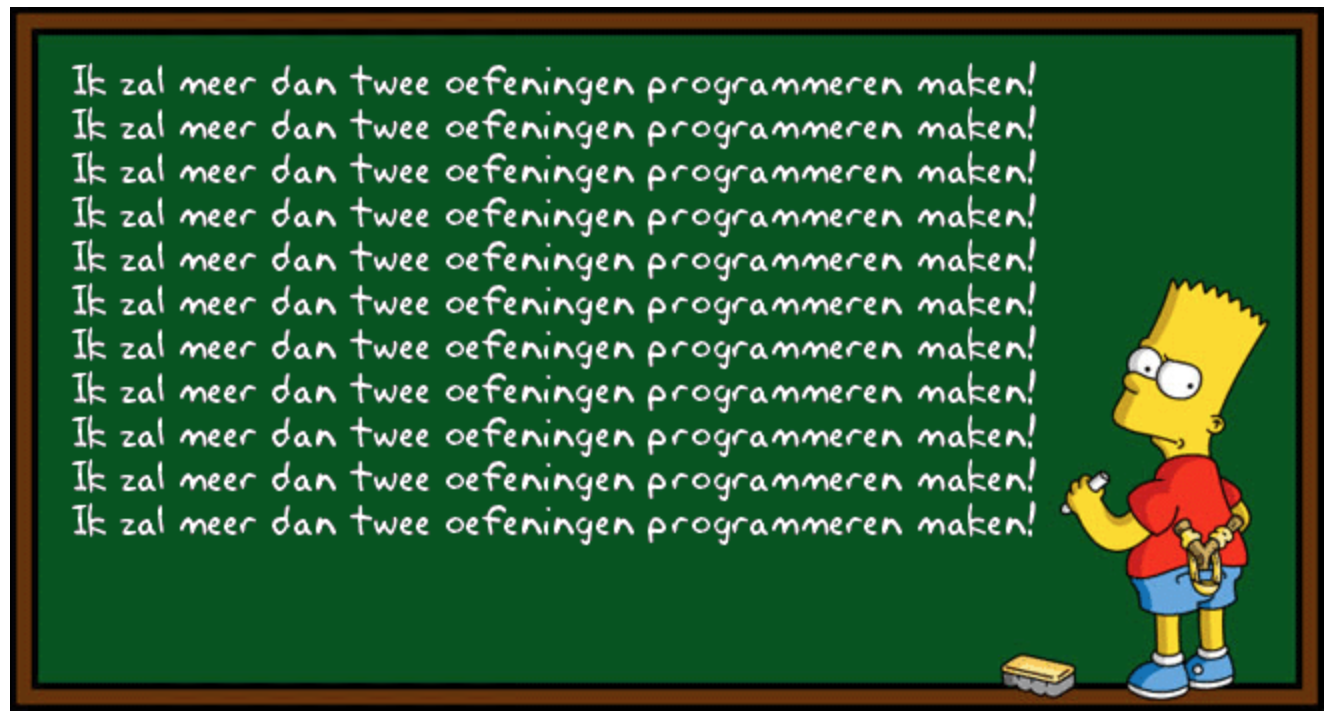
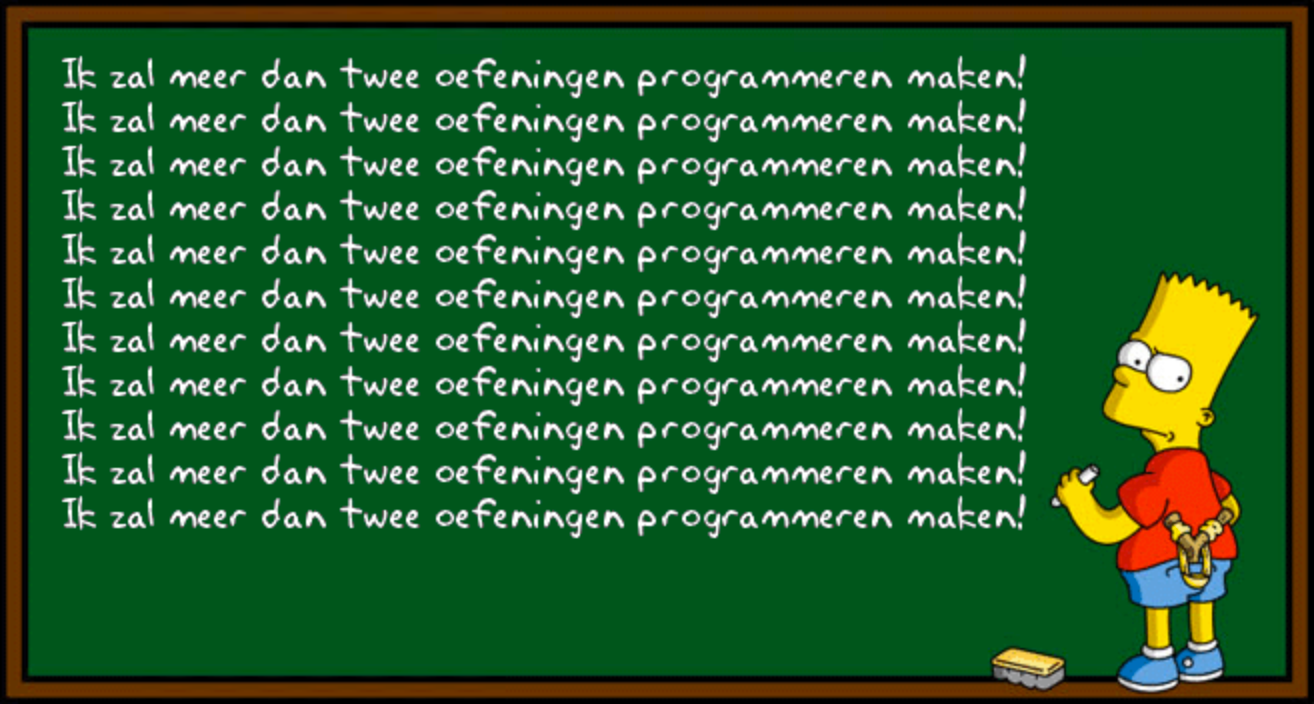
Better image

diff --git a/Hoofdstuk 3.1/1 - Opstellen Herhaling Optellen/02 Bart Simpson/description/description.nl.md b/Hoofdstuk 3.1/1 - Opstellen Herhaling Optellen/02 Bart Simpson/description/description.nl.md
@@ -7,7 +7,7 @@ In een interview maakte Matt bekend dat hij de naam "Bart" koos omdat het een an
 ![Bart Simpson](media/bartsimpson.png "Bart Simpson"){:data-caption="Bart Simpson" width="45%"}
 
 ## Gevraagd
-Schrijf een programma dat een natuurlijk getal vraagt en vervolgens evenveel keer de zin "Ik zal meer dan twee oefeningen programmeren maken!" op het scherm afdrukt.
+Schrijf een programma dat een natuurlijk getal vraagt en vervolgens evenveel keer de zin `"Ik zal meer dan twee oefeningen programmeren maken!"` op het scherm afdrukt.
 
 #### Voorbeeld
 Na invoer van `11` verschijnt:
